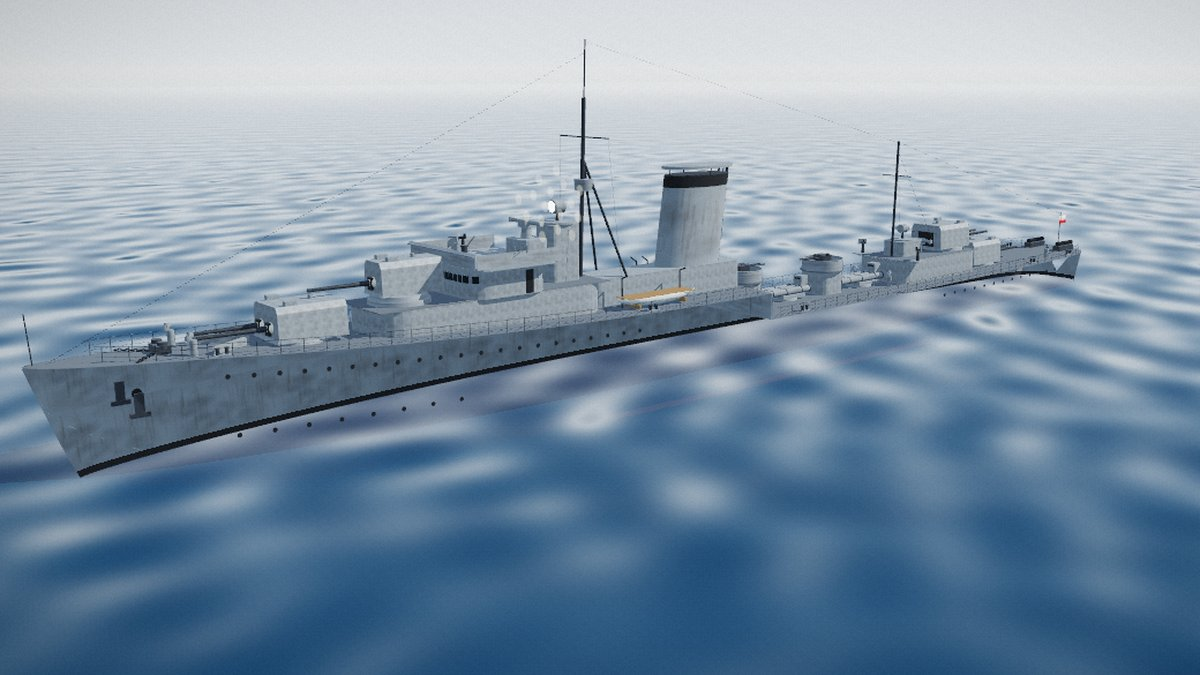
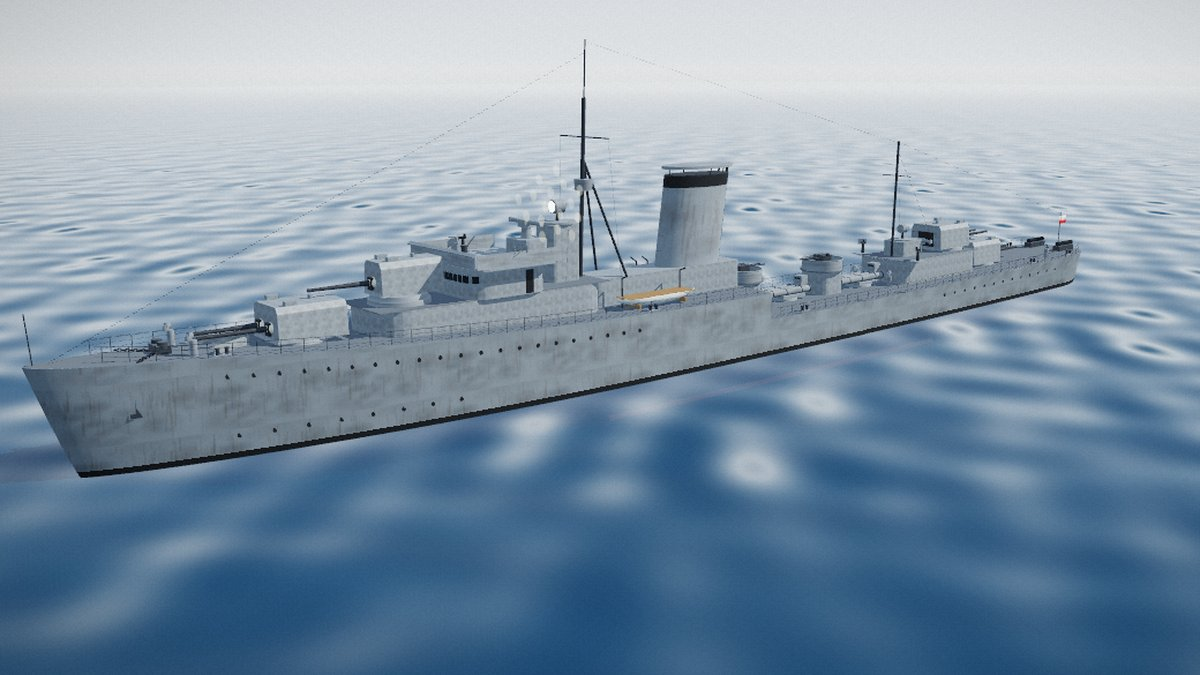
v0.7.3: Błyskawica hull winding fixed (was see-through) + doctor 'facing' check
Claude-Session: https://claude.ai/code/session_01HKsZaMUq7KjzRwrAZKmYyU

diff --git a/import/battle/js/labs/modeldoctor.js b/import/battle/js/labs/modeldoctor.js
@@ -8,6 +8,8 @@
 // Checks (finding: { check, severity, parts, detail, meshes, src, extra }):
 //   nan        positions that aren't numbers — broken maths                                   error
 //   inverted   a closed shape built inside-out (one-sided material: the outside is culled)    error
+//   facing     an open surface (hull shell, custom mesh) whose faces point inward — seen from outside it is   error
+//              see-through and you look at its inside (what `inverted` cannot see: it needs a closed shape)
 //   arc        a gun's line of fire hits its own ship inside the mount's training arc         warning (AA: info)
 //   zfight     two pieces' faces in one plane, overlapping — they flicker                     warning
 //   floating   a piece that touches nothing of the rest of the model                          warning
@@ -33,11 +35,12 @@
 //   opts.budget      { triangles, drawCalls, measured: { triangles, drawCalls } } for "budget"
 import * as THREE from '../../vendor/three.module.js';
 
-export const CHECKS = ['nan', 'inverted', 'arc', 'zfight', 'floating', 'waterline', 'poke', 'budget', 'hidden', 'speck', 'sliver'];
-export const SEVERITY = { nan: 'error', inverted: 'error', arc: 'warning', zfight: 'warning', floating: 'warning', waterline: 'warning', poke: 'warning', budget: 'warning', hidden: 'info', speck: 'info', sliver: 'info' };
+export const CHECKS = ['nan', 'inverted', 'facing', 'arc', 'zfight', 'floating', 'waterline', 'poke', 'budget', 'hidden', 'speck', 'sliver'];
+export const SEVERITY = { nan: 'error', inverted: 'error', facing: 'error', arc: 'warning', zfight: 'warning', floating: 'warning', waterline: 'warning', poke: 'warning', budget: 'warning', hidden: 'info', speck: 'info', sliver: 'info' };
 export const ABOUT = {
   nan: 'positions that are not numbers (broken maths)',
   inverted: 'closed shape built inside-out: its outside is culled',
+  facing: 'open surface whose faces point inward: from outside you see through it',
   arc: 'gun line of fire hits the own ship inside the training arc',
   zfight: 'faces of two pieces in one plane overlap and flicker',
   floating: 'piece touches nothing of the main body',
@@ -165,6 +168,34 @@ export function examine(root, opts = {}) {
     if (vol < 0) add('inverted', [m], m.g.type === 'ExtrudeGeometry' ? 'extrusion wound the wrong way (the outline goes clockwise, or it was mirrored)' : 'built inside-out (volume ' + vol.toExponential(1) + '; a mirrored scale or rotation baked into the geometry?)');
   });
   lap('inverted', t);
+
+  // facing: for open one-sided surfaces, cast a ray from each sampled face along its normal and one against it;
+  // a face whose front is boxed in by the model while its back looks out to open space points inward
+  t = performance.now();
+  if (run.has('facing')) {
+    const solidAll = meshes.filter((m) => !m.nan);
+    const cand = solidAll.filter((m) => !closedShape(m.g) && m.tris >= 20 && matsOf(m.o).every((x) => x.side === THREE.FrontSide));
+    if (cand.length) {
+      const objs = solidAll.map((m) => m.o), saved = new Map();
+      objs.forEach((o) => matsOf(o).forEach((x) => { if (!saved.has(x)) saved.set(x, x.side); x.side = THREE.DoubleSide; }));
+      const ray = new THREE.Raycaster(), c = new THREE.Vector3(), nn = new THREE.Vector3(), o = new THREE.Vector3();
+      const hits = (from, dir) => { ray.set(from, dir); ray.far = L * 2; return ray.intersectObjects(objs, false).length; };
+      for (const m of cand) {
+        const step = Math.max(1, Math.floor(m.tris / 48));
+        let inward = 0, outward = 0;
+        for (let k = 0; k < m.tris; k += step) {
+          triVerts(m, k, v0, v1, v2);
+          nn.crossVectors(e1.subVectors(v1, v0), e2.subVectors(v2, v0)); if (nn.lengthSq() < 1e-12 * L * L) continue;
+          nn.normalize(); c.copy(v0).add(v1).add(v2).divideScalar(3).applyMatrix4(root.matrixWorld);
+          const front = hits(o.copy(c).addScaledVector(nn, 0.002 * L), nn), back = hits(o.copy(c).addScaledVector(nn, -0.002 * L), nn.clone().negate());
+          if (front > 0 && back === 0) inward++; else if (front === 0 && back > 0) outward++;
+        }
+        if (inward >= 5 && inward > outward * 2) add('facing', [m], `${inward} of ${inward + outward} sampled faces point inward (reverse the triangle winding)`);
+      }
+      saved.forEach((side, x) => { x.side = side; });
+    }
+  }
+  lap('facing', t);
 
   // arc: train every gun mount through its arc (5° steps, guns level) and cast its line of fire
   t = performance.now();

diff --git a/import/battle/js/shipkit/ships/blyskawica.js b/import/battle/js/shipkit/ships/blyskawica.js
@@ -98,7 +98,7 @@ export function build(opt = {}) {
   const hp = new Part('hullFittings', mats);
   // forecastle break bulkhead (with doors) and a short bulwark at the step
   const yb0 = deckY(BREAK - 0.1), yb1 = deckY(BREAK + 0.1), wB = sideAt(lines, BREAK, yb1) * 2;
-  hp.box('paint', wB, yb1 - yb0, 0.1, [0, (yb0 + yb1) / 2, BREAK]);
+  hp.box('paint', wB - 0.08, yb1 - yb0, 0.1, [0, (yb0 + yb1) / 2, BREAK]);      // 4 cm inside the shell plating
   for (const sx of [-2.6, 2.6]) hp.box('dark', 0.8, 1.8, 0.05, [sx, yb0 + 0.92, BREAK - 0.06]);
   // bilge keels
   for (const sx of [-1, 1]) for (let z = -24; z < 18; z += 2) hp.box('hull', 0.06, 0.45, 2.05, [sx * (sideAt(lines, z, -1.9) - 0.15), -2.3, z], [0, 0, sx * 0.6]);
@@ -109,10 +109,10 @@ export function build(opt = {}) {
   for (let z = -48; z < -26; z += 1.8) port(z, deckY(z) - 1.05);
   // hawse pipes and anchors in their pockets
   for (const sx of [-1, 1]) {
-    const z = 51.2, y = 4.9, x = sx * (sideAt(lines, z, y) + 0.05);
-    hp.add('dark', new THREE.CircleGeometry(0.32, 12), [x, y + 0.3, z], [0, sx * Math.PI / 2, 0]);
-    hp.box('metal', 0.25, 1.4, 0.55, [x, y - 0.4, z - 0.1], [0, 0, 0]);
-    hp.box('metal', 0.25, 0.3, 1.2, [x, y - 1.1, z - 0.1]);
+    const z = 51.2, y = 4.9, sideX = (yy) => sx * (sideAt(lines, z, yy) + 0.14);   // anchor stowed against the flared plating
+    hp.add('dark', new THREE.CircleGeometry(0.32, 12), [sx * (sideAt(lines, z, y + 0.3) + 0.015), y + 0.3, z], [0, sx * Math.PI / 2, 0]);
+    hp.box('metal', 0.22, 1.4, 0.5, [sideX(y - 0.4), y - 0.4, z - 0.1]);
+    hp.box('metal', 0.22, 0.3, 1.2, [sideX(y - 1.1), y - 1.1, z - 0.1]);
   }
   // rudder, shafts, A-brackets, propellers (Ø 3.2 m, outward turning)
   hp.box('hull', 0.35, 2.6, 2.2, [0, -1.9, -54.6]);

diff --git a/import/battle/js/shipkit/hull.js b/import/battle/js/shipkit/hull.js
@@ -33,7 +33,7 @@ export function loftHull(lines, opt = {}) {
   for (let s = 0; s < zs.length - 1; s++) {
     for (let i = 0; i < per - 1; i++) {
       const a = s * per + i, b = a + 1, c = a + per, d = c + 1;
-      idx.push(a, c, b, b, c, d);
+      idx.push(a, b, c, b, d, c);                            // counter-clockwise seen from outside: normals point out
     }
   }
   // transom: close the aft-most ring with a fan
@@ -42,7 +42,7 @@ export function loftHull(lines, opt = {}) {
   let cx = 0, cy = 0, cz = 0;
   st.forEach((p) => { cx += p[0]; cy += p[1]; cz += p[2]; });
   pos.push(cx / per, cy / per, cz / per); uv.push(0, 0);
-  for (let i = 0; i < per - 1; i++) idx.push(t0, i, i + 1);
+  for (let i = 0; i < per - 1; i++) idx.push(t0, i + 1, i);
   const g = new THREE.BufferGeometry();
   g.setAttribute('position', new THREE.Float32BufferAttribute(pos, 3));
   g.setAttribute('uv', new THREE.Float32BufferAttribute(uv, 2));
@@ -125,7 +125,7 @@ export function deckSurface(hull, lines, regions, camber = 0.12) {
     }
     for (let a = 0; a < sel.length - 1; a++) for (let k = 0; k < across; k++) {
       const i0 = base + a * (across + 1) + k, i1 = i0 + 1, j0 = i0 + across + 1, j1 = j0 + 1;
-      idx.push(i0, i1, j0, i1, j1, j0);
+      idx.push(i0, j0, i1, i1, j0, j1);                      // normals up
     }
   }
   const g = new THREE.BufferGeometry();

diff --git a/import/battle/js/labs/doctor.js b/import/battle/js/labs/doctor.js
@@ -35,6 +35,9 @@ function testBench() {
   const inv = new THREE.BoxGeometry(1, 1, 1); inv.scale(-1, 1, 1);
   put('inside-out box', inv, grey, 0, 2.5, 6);
   put('zfight A', new THREE.BoxGeometry(1, 1, 1), red, 0, 2.5, 4); put('zfight B', new THREE.BoxGeometry(0.6, 1, 0.6), blue, 0.6, 2.5, 4);
+  const tube = new THREE.CylinderGeometry(0.4, 0.4, 1.2, 16, 1, true);
+  const ti = tube.index.array; for (let i = 0; i < ti.length; i += 3) { const k = ti[i]; ti[i] = ti[i + 1]; ti[i + 1] = k; }
+  put('inward tube', tube, grey, -1.2, 2.6, 7);
   put('floating box', new THREE.BoxGeometry(1, 1, 1), grey, 0, 7, 2);
   put('crate under water', new THREE.BoxGeometry(1, 1, 1), grey, 0, -0.5, 0);
   put('fender through the side', new THREE.BoxGeometry(0.5, 0.5, 0.5), grey, 2.1, 1, -2);

diff --git a/import/battle/tools/doctor.py b/import/battle/tools/doctor.py
@@ -15,7 +15,7 @@ ROOT = os.path.dirname(os.path.dirname(os.path.abspath(__file__)))
 GOLDEN = os.path.join(ROOT, 'tools', 'doctor.golden.json')
 OUT = os.path.join(ROOT, 'tools', 'out'); os.makedirs(OUT, exist_ok=True)
 PORT = 8780
-CHECKS = ['nan', 'inverted', 'arc', 'zfight', 'floating', 'waterline', 'poke', 'budget', 'hidden', 'speck', 'sliver']
+CHECKS = ['nan', 'inverted', 'facing', 'arc', 'zfight', 'floating', 'waterline', 'poke', 'budget', 'hidden', 'speck', 'sliver']
 
 def main():
     errs, fails = [], []

diff --git a/import/battle/docs/doctor.md b/import/battle/docs/doctor.md
@@ -29,6 +29,7 @@ Only solid meshes count (visible, opaque standard / physical / lambert / phong /
 |---|---|---|---|
 | nan | error | positions that aren't numbers | any non-finite vertex |
 | inverted | error | a closed shape built inside-out (outside culled) | negative signed volume in the geometry's own space; closed shapes only (box, closed cylinder, sphere, torus, extrusion, split boxes) |
+| facing | error | an open one-sided surface (hull shell, custom mesh) whose faces point inward: from outside you see through it and look at its inside | sampled faces: a ray along the face normal and one against it; a front boxed in by the model with a back looking out to open space = inward. Open surfaces with ≥ 20 triangles and a one-sided material (closed shapes are `inverted`'s job) |
 | arc | warning (AA: info) | a gun's line of fire hits the own ship inside its training arc | each mount trained through ±arc in 5° steps, guns level; a ray from each gun along its barrel, as long as the barrel; thin pieces (rails, wires, rods) do not count as obstacles. Tells the blocked bearings and what blocks them |
 | zfight | warning | two pieces' faces in one plane, overlapping: they flicker | triangles bucketed by plane (lab: 2 cm, otherwise 0.06 % of the model), 2D overlap of shrunk triangles. Skipped: same untextured material, `polygonOffset` decals. Tells the plane's normal and a point on it |
 | floating | warning | a piece that touches nothing of the main body | boxes grown by the tolerance (0.4 % of the model), connected groups; all but the biggest |
@@ -70,6 +71,15 @@ submarine 1 zfight; fixed in v0.7.1, all four are now clean:
 - Training arcs where the barrels reached the bridge or a pedestal at the end of the arc (`js/world/constants.js`):
   destroyer A ±145°, cruiser B (raised) ±130°, battleship B (raised) ±135°, battleship Y ±145°.
 - Doctor: a box's needle triangles (a wire) and the hull's flat extruded cap no longer count as slivers.
+
+## Missed and added (v0.7.3)
+
+The owner saw Błyskawica's hull "transparent from outside, textured inside". The lofted hull (`js/shipkit/hull.js`) was
+wound clockwise seen from outside, so its faces pointed inward; the deck surface pointed down. `inverted` only tests
+closed shapes (signed volume), and the hull is an open shell (the deck is a separate mesh), so nothing caught it. The new
+**facing** check finds it (48 of 48 sampled faces inward), the test bench has an inward open tube, and both windings are
+fixed; with the hull now visible from outside the doctor also found the forecastle-break bulkhead flush with the shell
+plating (inset 4 cm) and the anchors buried in the flare (now against the plating).
 
 ## Next
 
